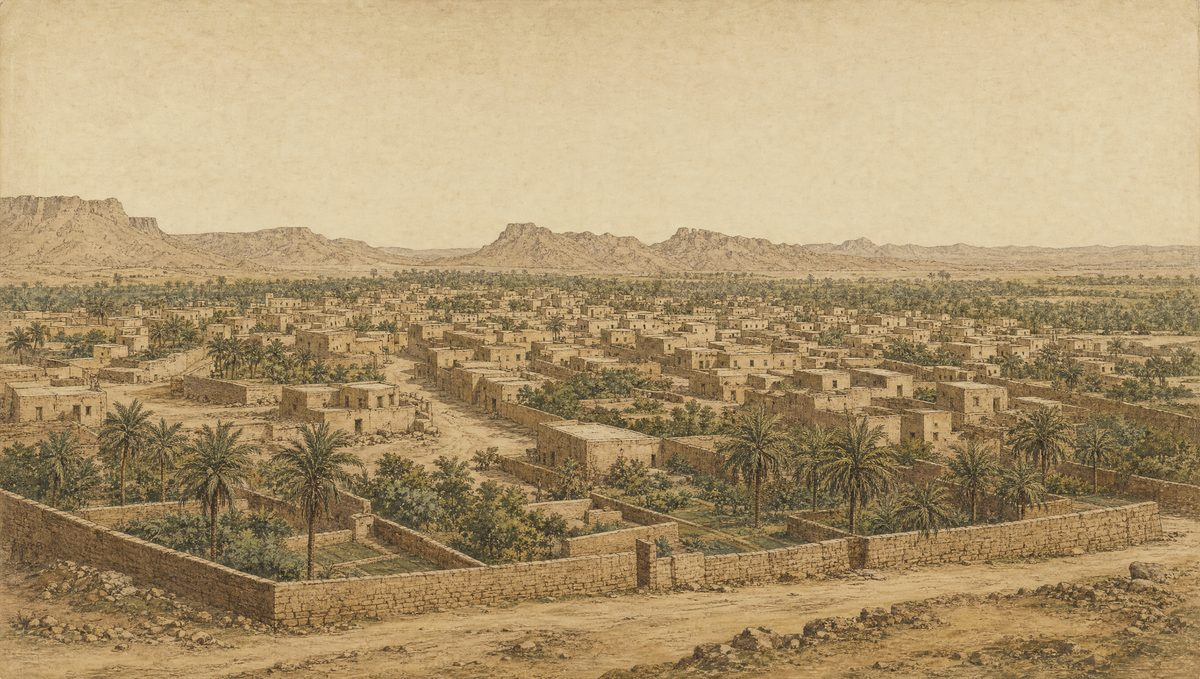
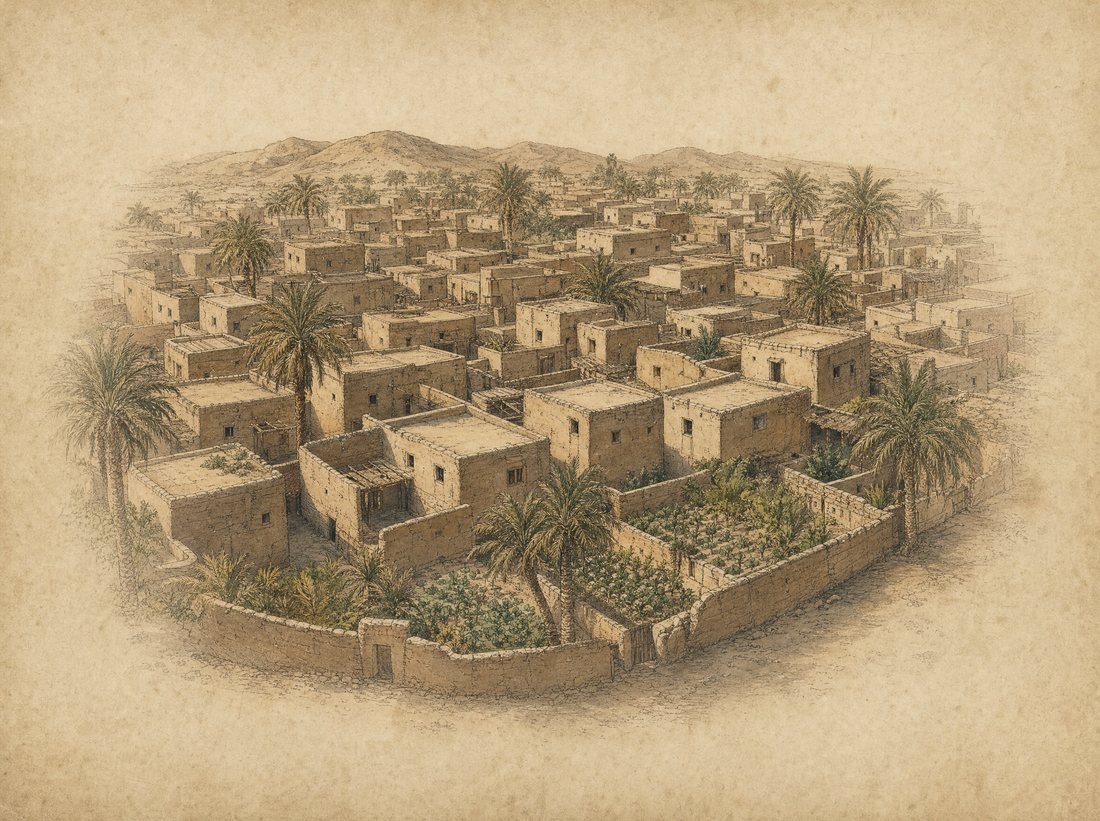
פרק 4: ויניטה במקום פנורמה, והפנים מחבקות את העיר
התמונה
  הישנה הייתה פנורמה טופוגרפית רחבה עם חצי מסגרת שמיים ריקים,
  וקו מסביב. שתי הפנים העליונות צפו על כלום. החדשה היא ויניטה:
  העיר ממלאת את הפריים, נראית מלמעלה ומקרוב, והציור נמוג אל
  הנייר בכל קצה. אין מסגרת, אין קו, כמעט אין שמיים.

  ומסכה ב-CSS גומרת את העבודה על הרקע של העמוד עצמו. הקודמת לא
  עשתה כלום: רדיוס של 120% מהרוחב סיים את ההיעלמות מחוץ לתיבה,
  אז התמונה נשארה מלבן. עכשיו אליפסה של 58%×62%.

המיקום
  בפינות הקיצוניות הקווים רצו 260 פיקסלים על פני שמיים ריקים
  והצביעו על כלום. עכשיו: 155, 156, 194 — ומכה 289, הארוך מכולם,
  כי היא מחוץ למסגרת.

והתוויות ויתרו על הלוחית שמאחוריהן: הן יושבות ממילא על רקע העמוד,
והמלבן הבהיר נראה כמלבן.

diff --git a/web/src/components/Chapter4.tsx b/web/src/components/Chapter4.tsx
@@ -661,8 +661,8 @@ export default function Chapter4() {
                       name: nameOf('§3.muhajirun'),
                       text: text('§3.muhajirun'),
                       img: 'who-muhajirun',
-                      x: 88,
-                      y: 22,
+                      x: 80,
+                      y: 30,
                       side: 'end',
                     },
                     {
@@ -670,8 +670,8 @@ export default function Chapter4() {
                       name: nameOf('§3.ansar'),
                       text: text('§3.ansar'),
                       img: 'who-ansar',
-                      x: 12,
-                      y: 22,
+                      x: 20,
+                      y: 30,
                       side: 'start',
                     },
                     {
@@ -679,7 +679,7 @@ export default function Chapter4() {
                       name: pick('§3.jews', 'שלושת השבטים היהודים'),
                       text: text('§3.jews'),
                       img: 'who-jews',
-                      x: 12,
+                      x: 20,
                       y: 74,
                       side: 'start',
                     },
@@ -688,8 +688,8 @@ export default function Chapter4() {
                       name: pick('§3.quraysh', 'הכופרים משבט קריש'),
                       text: text('§3.quraysh'),
                       img: 'who-quraysh',
-                      x: 80,
-                      y: 88,
+                      x: 78,
+                      y: 92,
                       side: 'end',
                       away: true,
                     },

diff --git a/web/src/styles/chapter4-article.css b/web/src/styles/chapter4-article.css
@@ -1035,7 +1035,9 @@
 
 .ch4-who-town{
   display:block;width:100%;height:auto;
-  border:1px solid var(--gold-soft);
+  /* dissolves into the page instead of sitting in a frame */
+  -webkit-mask-image:radial-gradient(ellipse 58% 62% at 50% 50%,#000 55%,rgba(0,0,0,.45) 80%,transparent 100%);
+  mask-image:radial-gradient(ellipse 58% 62% at 50% 50%,#000 55%,rgba(0,0,0,.45) 80%,transparent 100%);
   opacity:0;scale:.99;
   transition:opacity .7s ease,scale .7s ease;
 }
@@ -1063,7 +1065,7 @@
   .ch4-who-stage{
     display:block;
     /* room at the edges for a face standing at a corner, and for Mecca below */
-    padding:clamp(34px,4.4vw,64px) clamp(104px,12vw,182px) clamp(96px,10vw,150px);
+    padding:clamp(20px,2.6vw,38px) clamp(112px,13vw,196px) clamp(86px,9vw,132px);
   }
   .ch4-who-card{
     position:absolute;z-index:2;
@@ -1077,13 +1079,7 @@
   .ch4-who-card.is-end{flex-direction:row-reverse}
   .ch4-who-card.is-start .ch4-who-copy{text-align:start}
   .ch4-who-card.is-end .ch4-who-copy{text-align:end}
-  .ch4-who-copy{min-width:0;max-width:215px}
-  /* over a light painting the type still needs to hold: a soft plate of the
-     page's own ground, not a dark scrim */
-  .ch4-who-copy > *{
-    background:color-mix(in srgb,var(--panel) 86%,transparent);
-    padding:3px 8px;border-radius:6px;
-  }
+  .ch4-who-copy{min-width:0;max-width:240px}
 }
 
 .ch4-who-dot{

diff --git a/web/src/styles/chapter3-motion.css b/web/src/styles/chapter3-motion.css
@@ -174,10 +174,20 @@
 .c3-page.is-peak.is-live .c3-lens img{animation-duration:30s}
 .c3-page.is-peak.is-live .c3-fx{filter:brightness(1.3)}
 
+/* ⚠ THE OVERRIDES MUST MATCH THE SELECTORS THEY OVERRIDE, NOT BE SHORTER THAN
+   THEM. `.c3-lens img{animation:none}` loses to
+   `.c3-page.is-live .c3-lens img{animation:…}` on specificity and the camera
+   went on running for a reader who had asked it not to — measured at scale
+   1.052 with reduce set. Each line below carries the full selector. */
 @media (prefers-reduced-motion:reduce){
   .c3-lens,.c3-haze,.c3-fx{transition:none;transform:none}
-  .c3-lens img,.c3-haze,.c3-fx,.c3-fx::before,.c3-fx::after,
-  .c3-page.is-fresh .c3-cap,.c3-page.is-fresh .c3-plate,.c3-page.is-fresh .c3-stamp,
-  .c3-page.is-fresh .c3-say,.c3-page.is-fresh .c3-verse{animation:none}
+  .c3-page.is-live .c3-lens img,
+  .c3-page.is-live[data-c="out"] .c3-lens img,
+  .c3-page.is-peak.is-live .c3-lens img{animation:none;transform:none}
+  [data-m] .c3-haze,[data-m] .c3-fx::before,[data-m] .c3-fx::after,.c3-fx{animation:none}
+  .c3-page.is-fresh .c3-cap,.c3-page.is-fresh .c3-cap:nth-child(2),
+  .c3-page.is-fresh .c3-cap:nth-child(3),.c3-page.is-fresh .c3-plate,
+  .c3-page.is-fresh .c3-stamp,.c3-page.is-fresh .c3-say,
+  .c3-page.is-fresh .c3-verse{animation:none}
   .c3-scene{transition:opacity .3s ease;transform:scale(1.14)}
 }
